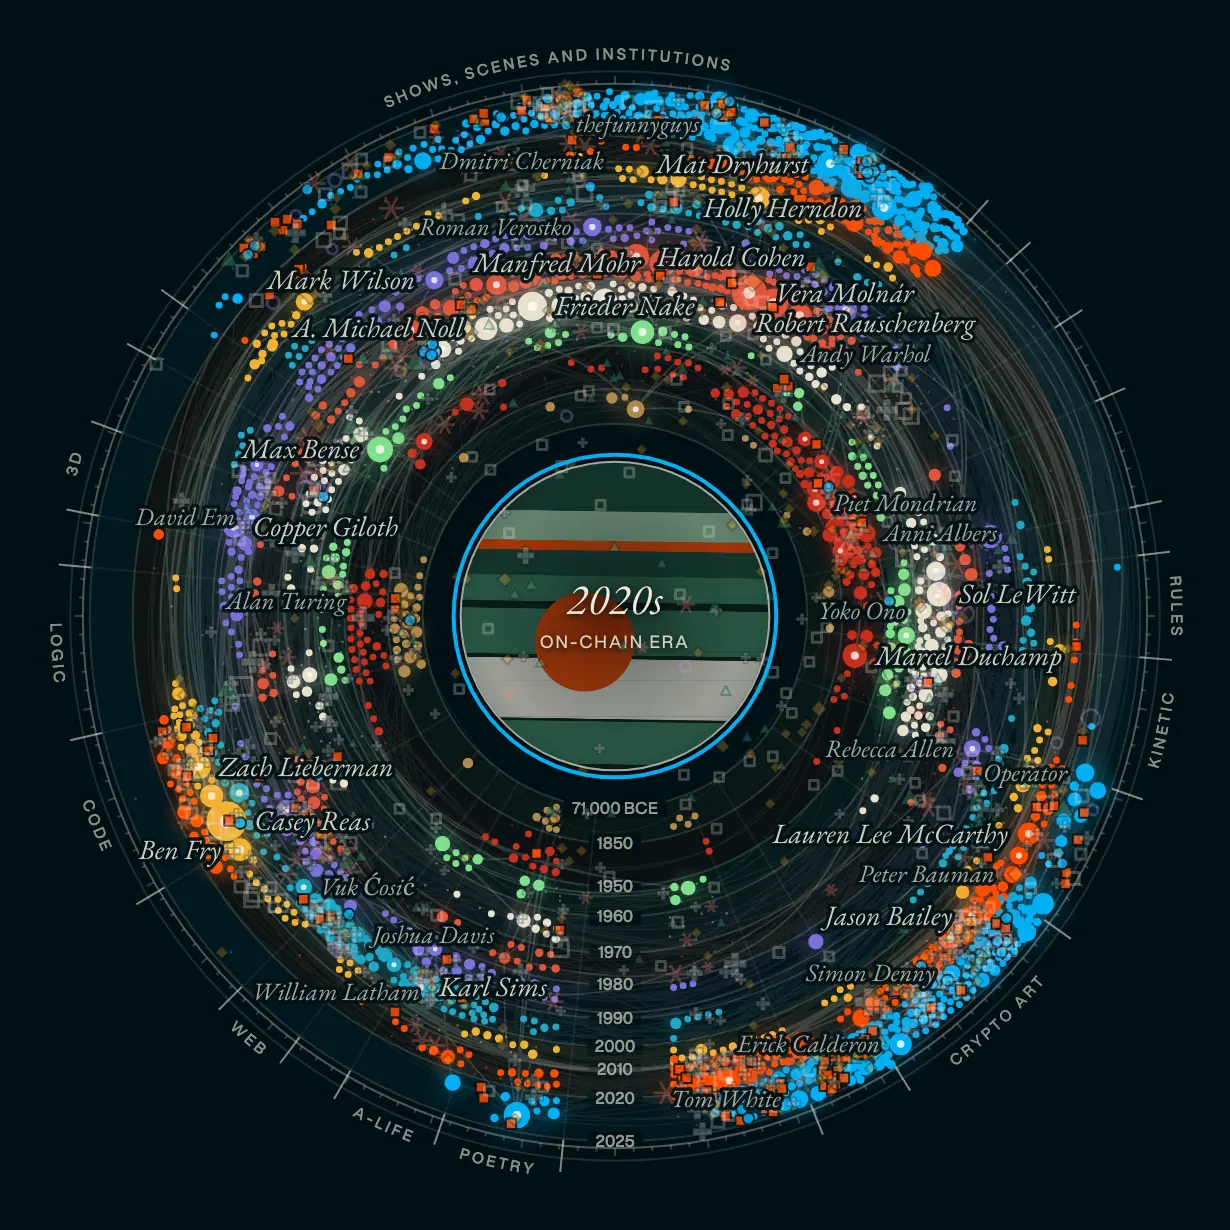
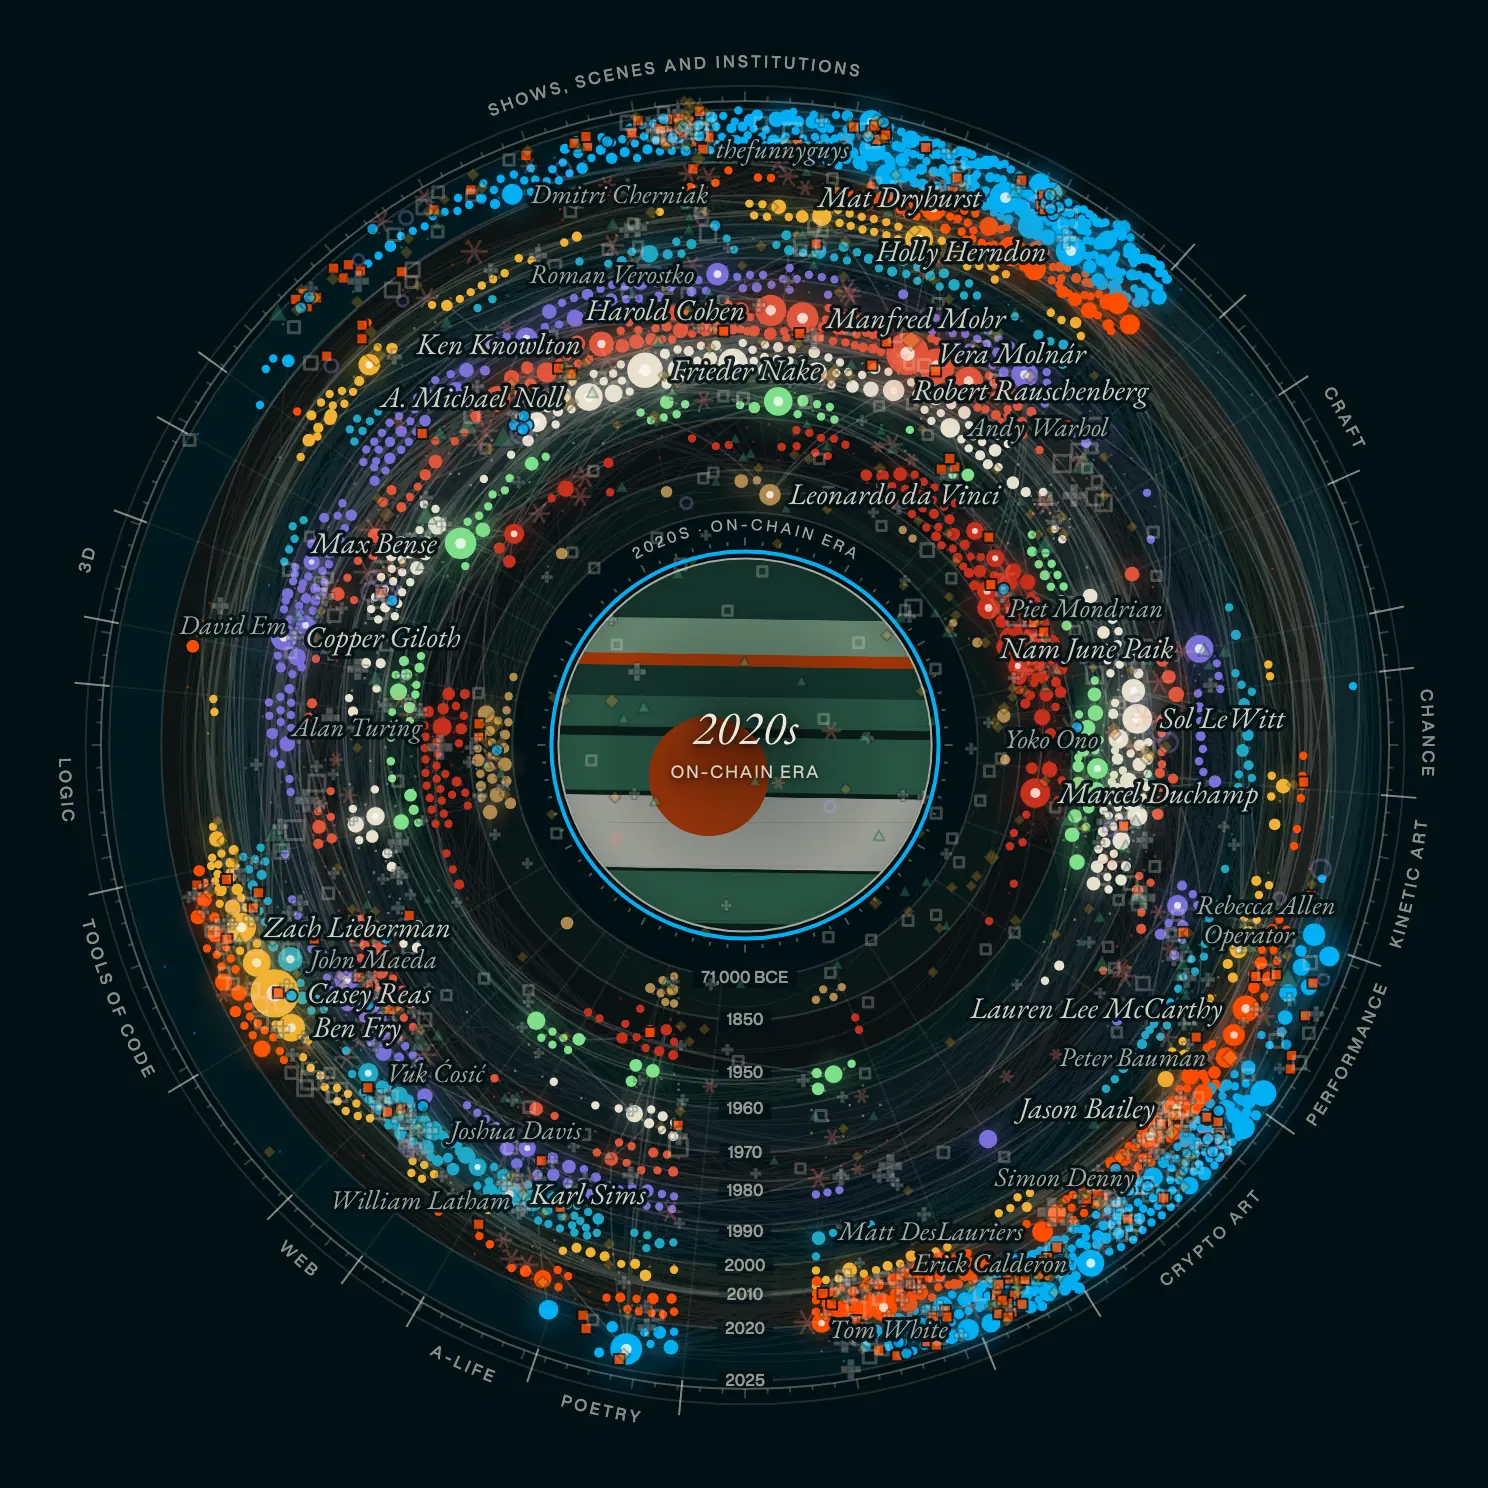
subjects split: index 38% of the column (380-540px), one-column rows, kind toggles on one line, A-Z letters only in A-Z, one control row from 1280: a bigger map

diff --git a/subjects/assets/views/people.css b/subjects/assets/views/people.css
@@ -588,22 +588,39 @@ button.pv-chip.is-tag:hover{border-style:solid}
    the content column and the subjects index (kind chips that drive the map, Random weighted by mentions / A to Z, the
    letters, the list) fills the right 52% and scrolls on its own. The page head turns it on (html.sx-split -> .sl-split). */
 @media (min-width:1100px){
-  .pp.sl-hero.sl-split{--panel-w:calc((100vw - 2 * var(--L)) * .52)}
+  /* 9 Oct 2026 (Peter: "save space on the right so the map can be bigger"): the index takes 38% of the column */
+  .pp.sl-hero.sl-split{--panel-w:clamp(380px,calc((100vw - 2 * var(--L)) * .38),540px)}
   .pp.sl-hero.sl-split .pp-stage{margin:calc(var(--mb) + 10px) 0 96px var(--L);overflow:visible}
   .pp.sl-hero.sl-split .pp-stage::before{background:none}
   .pp.sl-hero.sl-split .pp-stage::after{left:0;right:28px;bottom:0}
   .pp.sl-hero.sl-split .pp-panel{display:flex!important;background:transparent;border-left:0;margin:calc(var(--mb) + 30px) var(--L) 0 28px}
   .pp.sl-hero.sl-split .pp-handle,.pp.sl-hero.sl-split .pv-bar,.pp.sl-hero.sl-split .pv-kicker,.pp.sl-hero.sl-split .pv-title,
   .pp.sl-hero.sl-split .sl-pathf,.pp.sl-hero.sl-split .pv-window{display:none!important}
-  .pp.sl-hero.sl-split .pp-scroll{padding-bottom:28px;scrollbar-width:thin;scrollbar-color:rgba(247,244,234,.25) transparent}
+  .pp.sl-hero.sl-split .pp-scroll{zoom:1!important;padding-bottom:28px;scrollbar-width:thin;scrollbar-color:rgba(247,244,234,.25) transparent}
   .pp.sl-hero.sl-split .pv{background:transparent;padding:0}
   .pp.sl-hero.sl-split .pp-panel{--lr-ink:#EFE9D8;--paper:#011015;color:#EFE9D8}
   .pp.sl-hero.sl-split .pp-panel *{border-color:rgba(247,244,234,.2)}
   /* kind chips: selected = the kind is on the map (all seven at first); off = dimmed, as the map's own chips */
   .pp.sl-hero.sl-split .sl-tabs .pv-chip{color:#EFE9D8;background:transparent;border-color:rgba(247,244,234,.3)}
-  .pp.sl-hero.sl-split .sl-tabs .pv-chip[aria-pressed="true"]{background:rgba(247,244,234,.08);border-color:rgba(247,244,234,.75);color:#F7F4EA}
-  .pp.sl-hero.sl-split .sl-tabs .pv-chip[aria-pressed="false"]{opacity:.45}
+  .pp.sl-hero.sl-split .sl-tabs .pv-chip[aria-pressed="true"]{color:#F7F4EA}
+  .pp.sl-hero.sl-split .sl-tabs .pv-chip[aria-pressed="false"]{opacity:.38;text-decoration:line-through;text-decoration-thickness:1px}
+  .pp.sl-hero.sl-split .sl-tabs .pv-chip:hover{background:rgba(247,244,234,.1)!important}
   .pp.sl-hero.sl-split .sl-tabs .pv-chip small{color:rgba(239,233,216,.62)}
+  /* compact index: one row of kind toggles (scrolling with a fade when they do not fit), the order under them, one
+     column of rows: name, count, one line each */
+  .pp.sl-hero.sl-split .sl-tabs{flex-wrap:nowrap;overflow-x:auto;scrollbar-width:none;gap:3px;margin:0 0 8px -3px}
+  .pp.sl-hero.sl-split .sl-tabs::-webkit-scrollbar{display:none}
+  .pp.sl-hero.sl-split .sl-tabs.is-over{-webkit-mask-image:linear-gradient(90deg,#000 calc(100% - 32px),transparent);mask-image:linear-gradient(90deg,#000 calc(100% - 32px),transparent)}
+  .pp.sl-hero.sl-split .sl-tabs .pv-chip{flex:none;min-height:24px;padding:2px 3px;gap:2px;font:400 10.5px/1.1 Rules,Arial,sans-serif;letter-spacing:-.005em;border:0!important;border-radius:3px;background:transparent!important}
+  .pp.sl-hero.sl-split .sl-tabs .pv-chip small{margin-left:0;font:500 8.5px/1 ui-monospace,SFMono-Regular,Menlo,monospace;letter-spacing:-.02em}
+  .pp.sl-hero.sl-split .sl-sort{margin:0 0 8px}
+  .pp.sl-hero.sl-split .sl-sort button{height:24px;padding:0 9px;font-size:10px}
+  .pp.sl-hero.sl-split .sl-list{columns:1}
+  .pp.sl-hero.sl-split .sl-list a{box-sizing:border-box;height:34px;align-items:center;gap:10px;padding:0;font:400 clamp(14px,.84vw,16px)/1.2 Rules,Arial,sans-serif;border-bottom-color:rgba(247,244,234,.14)}
+  .pp.sl-hero.sl-split .sl-list .nm{flex:0 1 auto;min-width:0;white-space:nowrap;overflow:hidden;text-overflow:ellipsis}
+  .pp.sl-hero.sl-split .sl-list .dots{flex:1 1 8px}
+  .pp.sl-hero.sl-split .sl-list .c{flex:none;font:500 11px/1 ui-monospace,SFMono-Regular,Menlo,monospace;opacity:.62}
+  .pp.sl-hero.sl-split .sl-more{margin-top:12px}
   .pp.sl-hero.sl-split .sl-az{flex-wrap:nowrap;justify-content:space-between;gap:0}
   .pp.sl-hero.sl-split .sl-az button{min-width:0;flex:1 1 0;padding:0}
   .pp.sl-hero.sl-split .sl-az button:hover{background:rgba(247,244,234,.1)}
@@ -621,4 +638,11 @@ button.pv-chip.is-tag:hover{border-style:solid}
   .pp.sl-hero.sl-split #sl-mode{left:0;bottom:-46px}
   .pp.sl-hero.sl-split .sl-time{left:0;transform:none;width:calc(100% - 28px);bottom:-86px;gap:14px}
   .pp.sl-hero.sl-split .sl-time b{min-width:4.2ch}
+}
+/* 9 Oct 2026: from 1280px the split's controls share one row under the map (Arrange by, then In history by), so the
+   map gets the height (at 1440 it is the height that limits the ring) */
+@media (min-width:1280px){
+  .pp.sl-hero.sl-split .pp-stage{margin-bottom:52px}
+  .pp.sl-hero.sl-split #sl-mode{bottom:-40px}
+  .pp.sl-hero.sl-split .sl-time{left:350px;width:calc(100% - 378px);bottom:-36px}
 }

diff --git a/subjects/assets/views/people.js b/subjects/assets/views/people.js
@@ -2789,12 +2789,13 @@
       ${slPathHTML()}
       <div class="pv-chips sl-tabs">${order.map(k => `<button class="pv-chip" type="button" data-sltab="${k}" aria-pressed="${SPL ? SL.kinds.has(k) : st.slTab === k}">${SLK_NAME[k]} <small>${fmt(cnt(k))}</small></button>`).join('')}</div>
       <div class="sl-sort" role="group" aria-label="Order"><button type="button" data-slsort="rand" aria-pressed="${st.slSort === 'rand'}">Random</button><button type="button" data-slsort="az" aria-pressed="${st.slSort === 'az'}">A&ndash;Z</button>${st.slSort === 'rand' ? '<button type="button" class="sl-shuf" data-slshuf>Shuffle</button>' : `<span class="lab sl-pos">${fmt(from)}&ndash;${fmt(to)} of ${fmt(az.length)}</span>`}</div>
-      <div class="sl-az" role="group" aria-label="By letter">${'#ABCDEFGHIJKLMNOPQRSTUVWXYZ'.split('').map(c => `<button type="button" data-slaz="${c}"${letters.has(c) ? '' : ' disabled'}>${c}</button>`).join('')}</div>
+      ${SPL && st.slSort !== 'az' ? '' : `<div class="sl-az" role="group" aria-label="By letter">`}${SPL && st.slSort !== 'az' ? '' : `${'#ABCDEFGHIJKLMNOPQRSTUVWXYZ'.split('').map(c => `<button type="button" data-slaz="${c}"${letters.has(c) ? '' : ' disabled'}>${c}</button>`).join('')}</div>`}
       <ol class="sl-list">${rows.map(s => `<li><a href="${LRWEB}/subjects/${esc(s.slug)}" data-sl="${esc(s.slug)}"><span class="nm">${esc(s.n)}</span><span class="dots"></span><span class="c">${s.tot || ''}</span></a></li>`).join('')}</ol>
       ${st.slSort === 'az' ? (az.length > SL_ROWS ? `<p class="sl-more sl-pager"><button type="button" data-slpg="-1"${st.slOff ? '' : ' disabled'}>&larr; Previous</button><button type="button" data-slpg="1"${st.slOff + SL_ROWS < az.length ? '' : ' disabled'}>Next &rarr;</button></p>` : '')
         : `<p class="sl-more"><button type="button" data-slsort="az">All ${fmt(SPL ? az.length : cnt(st.slTab))} ${SPL ? 'subjects' : name} A&ndash;Z &rarr;</button></p>`}
     </div>`;
     scroller.scrollTop = 0;
+    if (SPL) { const tb = $('.sl-tabs', scroller); if (tb) tb.classList.toggle('is-over', tb.scrollWidth > tb.clientWidth + 1); }
   }
 
   function start() {
